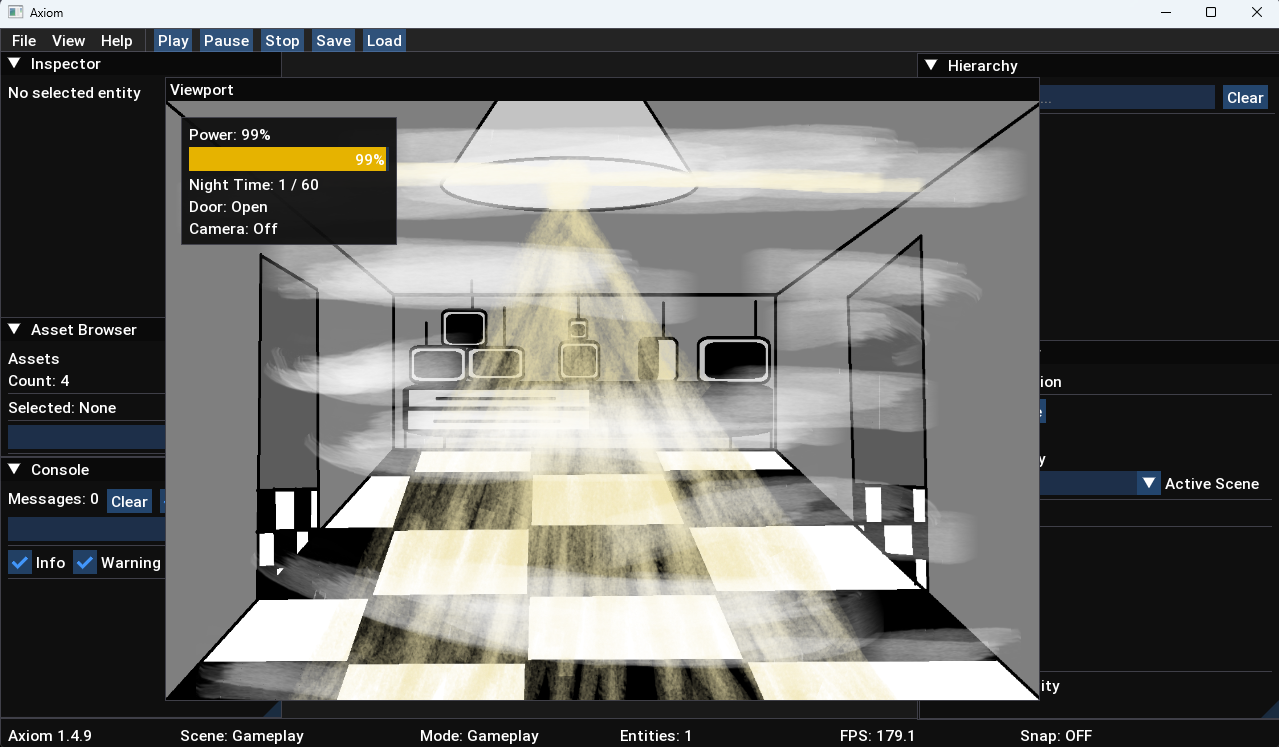
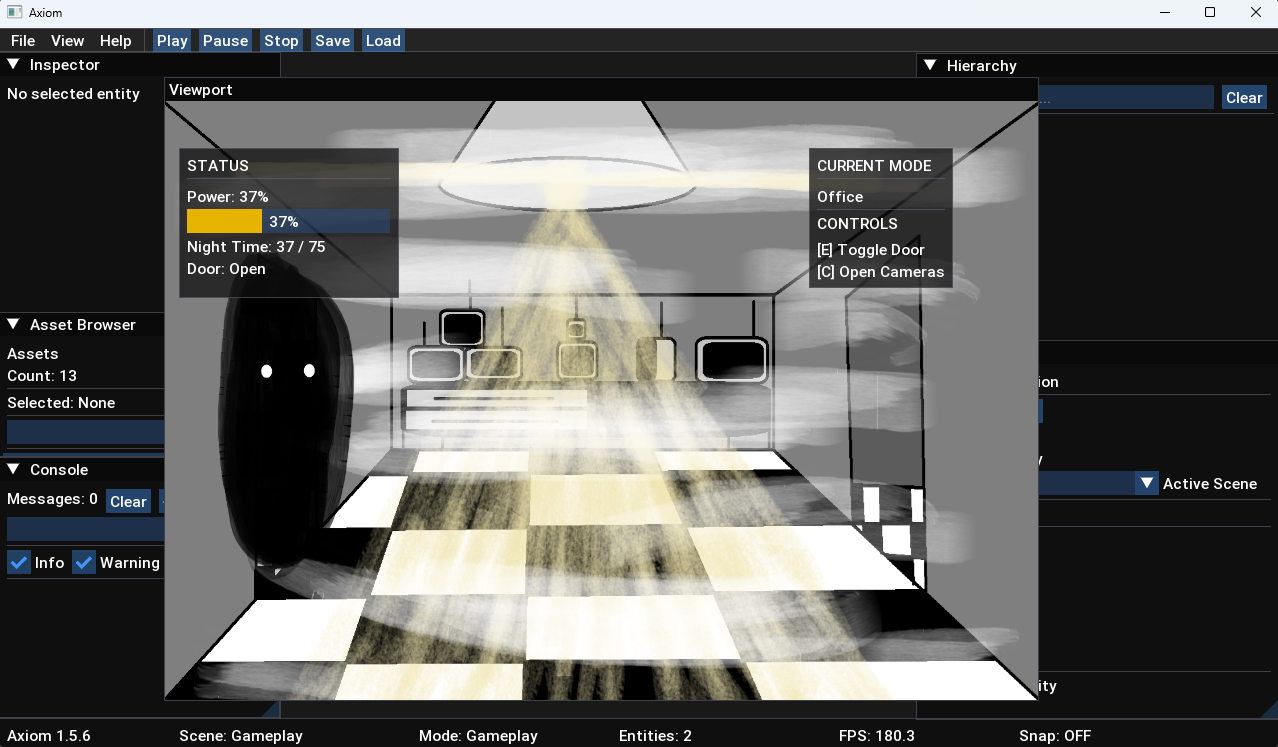
feat(gameplay): finalize gameplay prototype

diff --git a/src/Game/GameLayer.cpp b/src/Game/GameLayer.cpp
@@ -193,6 +193,7 @@ void GameLayer::startRuntime()
 
     resetGameSession();
 
+    gameState = GameState::Menu;
     enterRuntime();
 }
 
@@ -1223,9 +1224,6 @@ void GameLayer::enterRuntime()
 
 void GameLayer::enterMenu()
 {
-    if (!m_Application->isPlaying())
-        return;
-
     setActiveScene("Menu", menuScene);
 }
 

diff --git a/include/Axiom/Core/Version.hpp b/include/Axiom/Core/Version.hpp
@@ -1,3 +1,3 @@
 #pragma once
 
-#define AXIOM_VERSION "1.5.5"
+#define AXIOM_VERSION "1.5.6"

diff --git a/README.md b/README.md
@@ -59,6 +59,11 @@ runtime interaction, and development tools for 2D game creation.
   - Runtime Session Lifecycle
   - Play / Pause / Stop
   - Main Menu
+  - Difficulty Selection
+  - Gameplay Prototype
+  - Enemy AI
+  - Camera System
+  - Power Management
   - Gameplay HUD
   - Win / Game Over States
   - Runtime Scene Transitions
@@ -109,15 +114,16 @@ Build and run the project
 
 ## Current Status
 
-Axiom Engine 1.4.x completes the Game Framework stage.
+Axiom Engine 1.5.x completes the first playable gameplay prototype.
 
-The engine now combines the second generation editor with runtime
-systems, gameplay state management, an integrated HUD, scene transitions,
-and debugging tools.
+The engine now combines the second generation editor with a complete runtime
+workflow, gameplay systems, enemy AI, gameplay balancing, runtime UI,
+and menu-driven game flow.
 
-Axiom currently provides a complete foundation for 2D game development,
+Axiom currently provides a complete foundation for creating 2D games,
 including rendering, ECS, scene management, runtime architecture,
-serialization, debugging tools, and an integrated editor.
+resource management, gameplay systems, debugging tools,
+and an integrated editor.
 
-The next stage of development will focus on creating the first playable
-prototype using Axiom Engine.
+The next stage of development will focus on expanding gameplay features
+and preparing the engine for larger original projects.

diff --git a/VERSION.md b/VERSION.md
@@ -315,3 +315,39 @@ the Game Framework stage.
 
 Complete the Game Framework stage and prepare the engine
 for the first playable prototype.
+
+---
+
+## v1.5 — First Gameplay Prototype
+
+### Added
+
+- Main Menu
+- Difficulty Selection
+- Enemy AI improvements
+- Camera gameplay
+- Power management
+- Gameplay HUD
+- Victory / Game Over UI
+- Runtime gameplay flow
+
+### Improved
+
+- Enemy behavior balancing
+- Gameplay difficulty
+- Runtime UI
+- Gameplay polish
+- Runtime transitions
+
+### Fixed
+
+- Runtime game flow
+- Menu startup
+- HUD and Debug synchronization
+- Gameplay state transitions
+- Runtime stability
+
+### Goal
+
+Complete the first playable gameplay prototype and provide a stable
+foundation for future game development using Axiom Engine.
